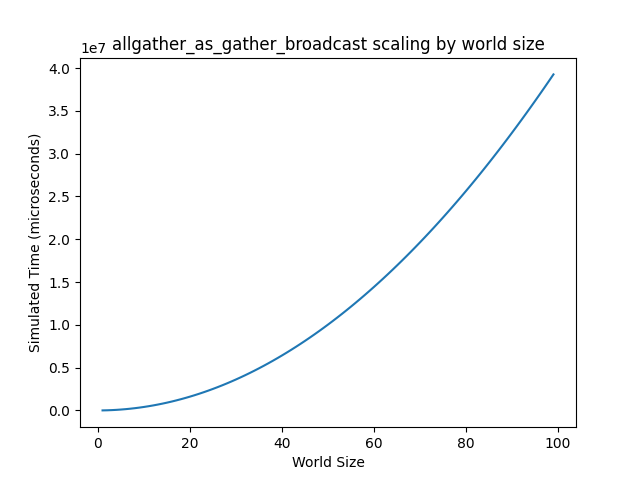
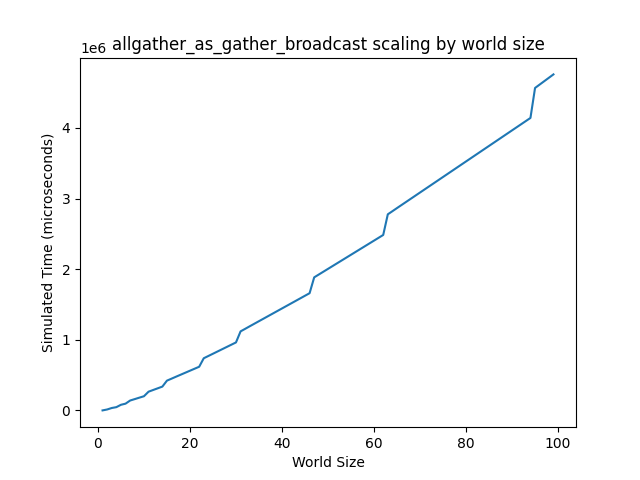
Update allgather_as_gather_broadcast to use binary tree broadcast; add a sleep to run_threads loop.

diff --git a/mpi_algorithms/algorithms/allgather.py b/mpi_algorithms/algorithms/allgather.py
@@ -2,7 +2,7 @@ from typing import List
 
 import torch
 
-from mpi_algorithms.algorithms.broadcast import broadcast_chain_tree
+from mpi_algorithms.algorithms.broadcast import broadcast_binary_tree
 from mpi_algorithms.algorithms.gather import gather_binary_tree
 from mpi_algorithms.communicator import Communicator
 from mpi_algorithms.util import no_nones_list
@@ -12,7 +12,6 @@ def allgather_as_gather_broadcast(comm: Communicator, data: torch.Tensor) -> Lis
     """
     Allgather data from all ranks to all ranks using gather and broadcast.
     """
-    # These were the two fastest implementations.
     gathered = gather_binary_tree(comm, data, 0)
     # We assume all data is equal size for now.
     # We could instead do multiple broadcasts, but this would incur additional latency.
@@ -20,7 +19,7 @@ def allgather_as_gather_broadcast(comm: Communicator, data: torch.Tensor) -> Lis
         assert gathered is not None
         gathered = torch.cat(gathered, dim=0)
     assert isinstance(gathered, torch.Tensor) or gathered is None
-    broadcast = broadcast_chain_tree(comm, gathered, 0)
+    broadcast = broadcast_binary_tree(comm, gathered, 0)
     per_rank_size = broadcast.size(0) // comm.world_size
     # Split the broadcasted data back into segments.
     return [broadcast[i * per_rank_size : (i + 1) * per_rank_size] for i in range(comm.world_size)]

diff --git a/mpi_algorithms/util.py b/mpi_algorithms/util.py
@@ -1,5 +1,6 @@
 import queue
 import threading
+import time
 from typing import Any, Callable, List, Optional, TypeGuard, TypeVar
 
 T = TypeVar("T")
@@ -35,4 +36,5 @@ def run_threads(functions: List[Callable[..., Any]], args: List[Any]) -> List[An
             raise exc_queue.get()
         if all(not t.is_alive() for t in threads):
             break
+        time.sleep(0.1)
     return results
